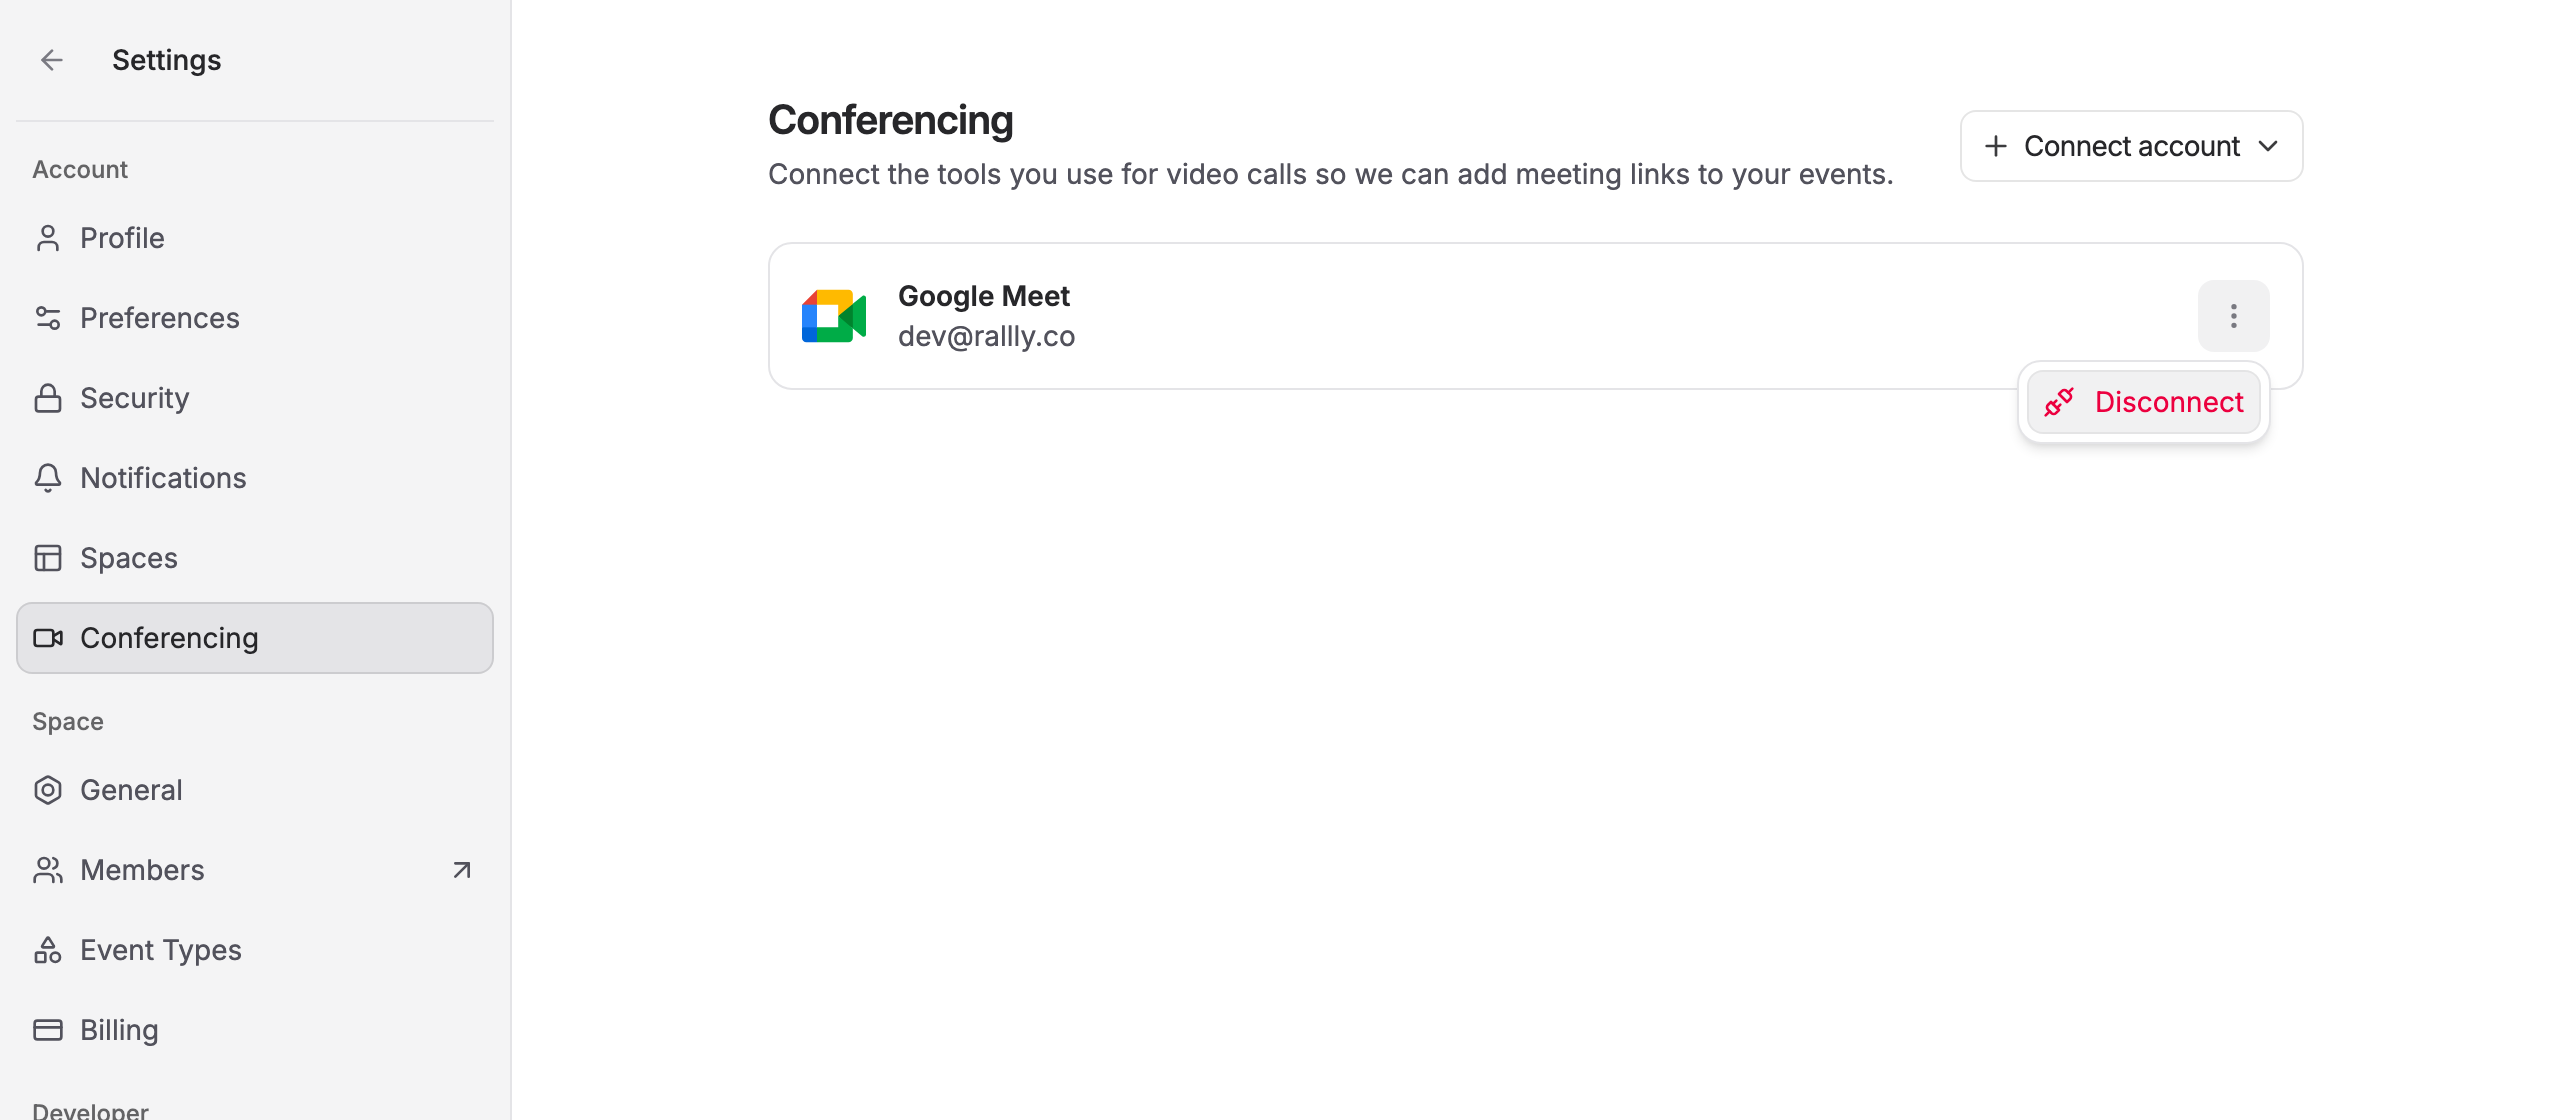
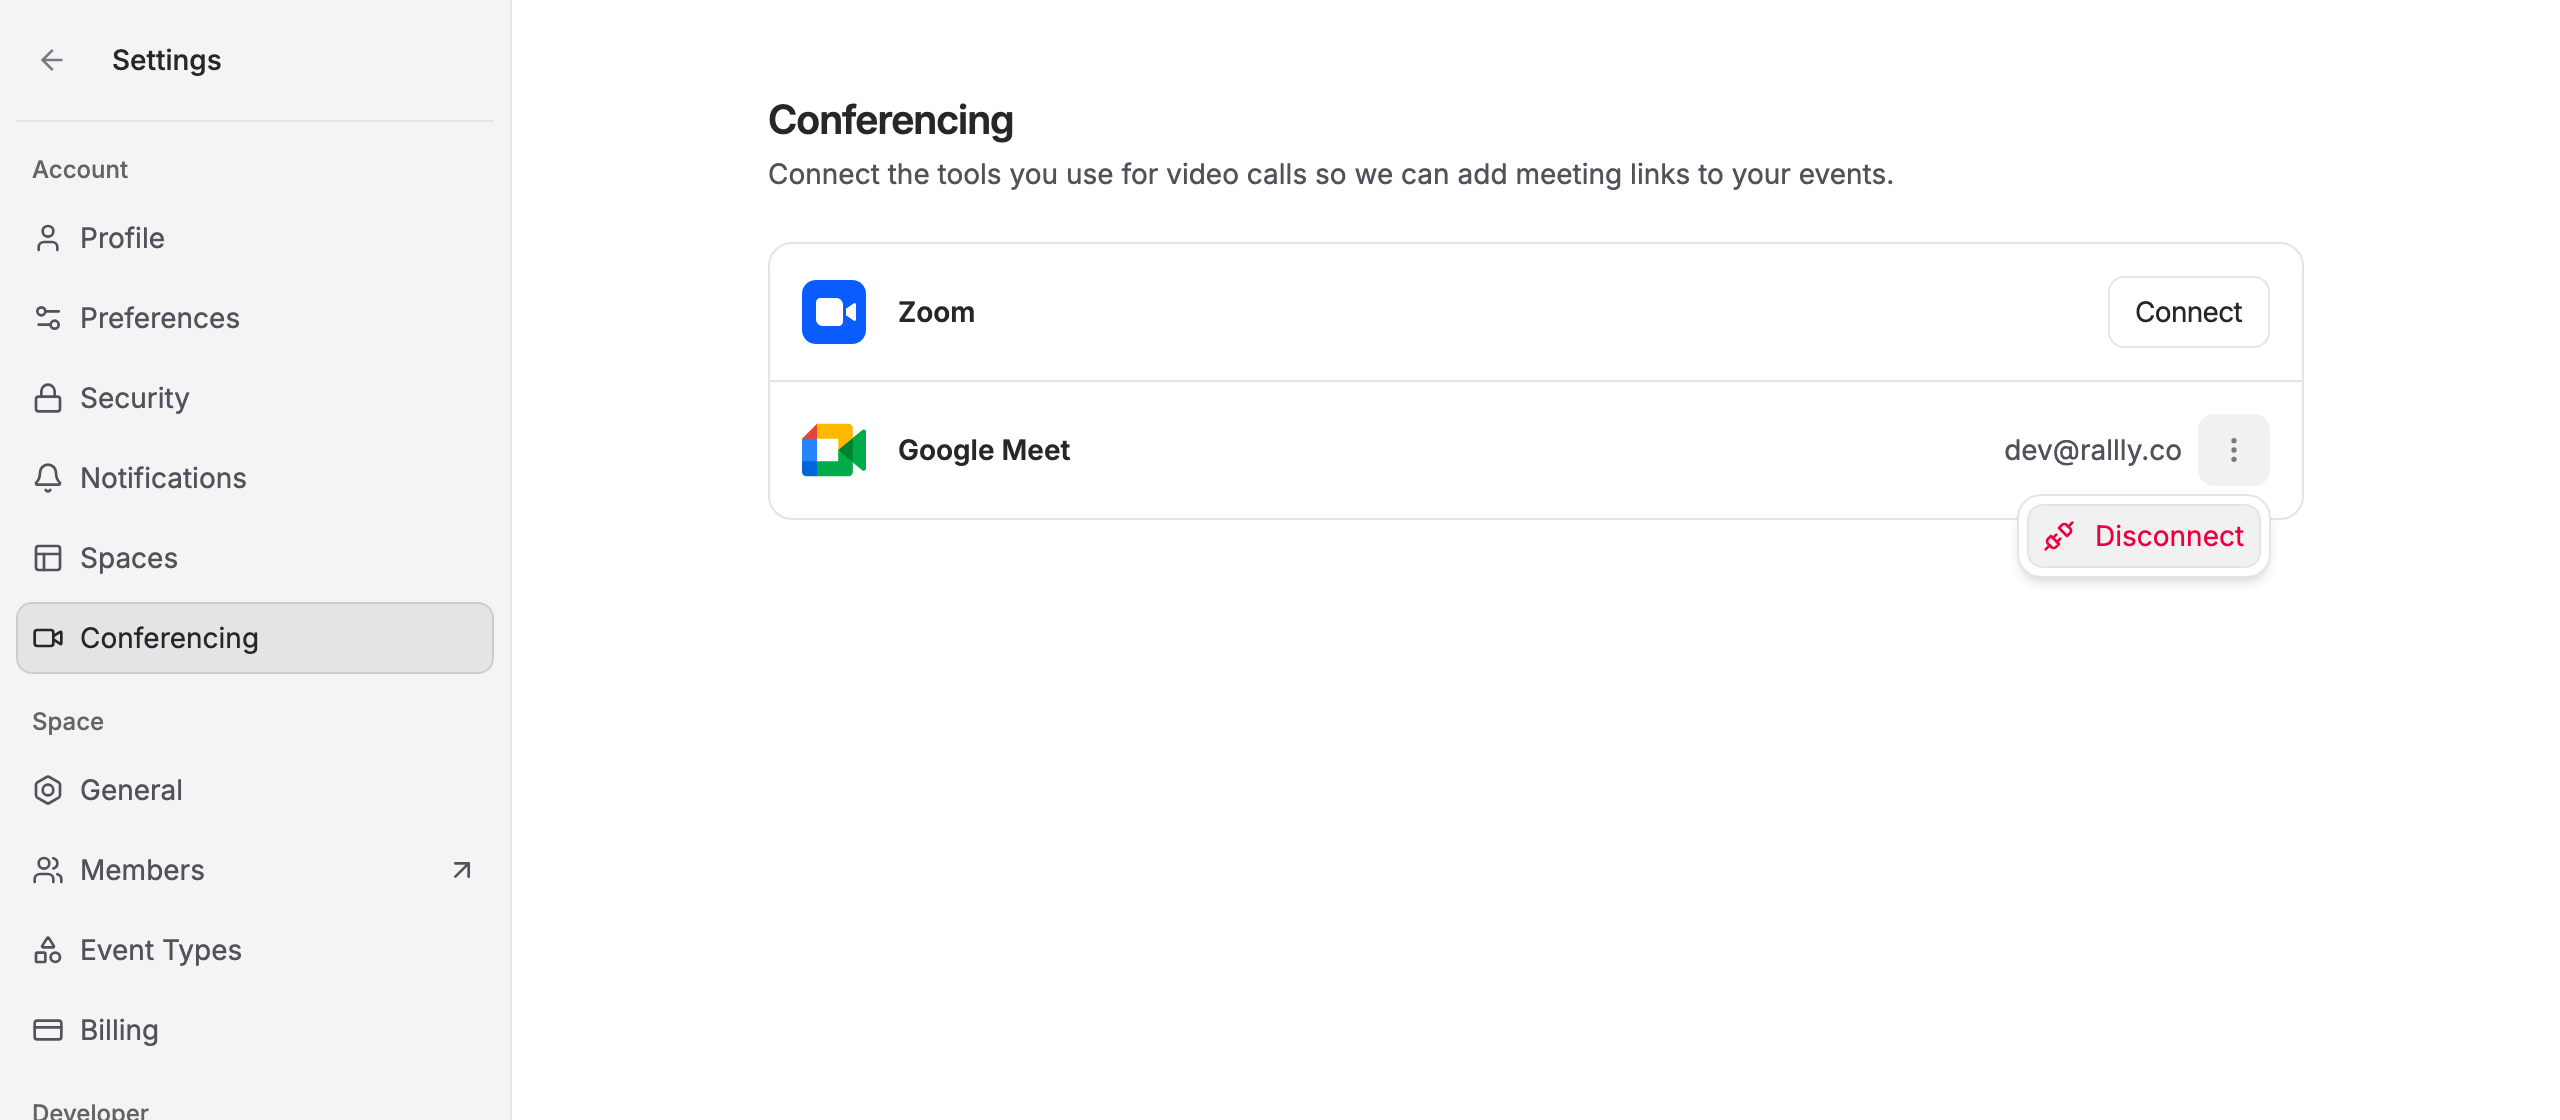
✨ Keep one conferencing account per provider (#3384)

diff --git a/apps/web/src/app/[locale]/(space)/settings/conferencing/page.tsx b/apps/web/src/app/[locale]/(space)/settings/conferencing/page.tsx
@@ -4,7 +4,6 @@ import { Suspense } from "react";
 import { PageSection, PageSectionContent } from "@/components/page-layout";
 import {
   SettingsPage,
-  SettingsPageAction,
   SettingsPageContent,
   SettingsPageDescription,
   SettingsPageHeader,
@@ -12,12 +11,13 @@ import {
 } from "@/components/settings-layout";
 import { Spinner } from "@/components/spinner";
 import { ConferencingConnectionFlash } from "@/features/conferencing/components/conferencing-connection-flash";
-import { ConferencingConnectionList } from "@/features/conferencing/components/conferencing-connection-list";
-import { ConnectConferencingDropdown } from "@/features/conferencing/components/connect-conferencing-dropdown";
+import { ConferencingProviderList } from "@/features/conferencing/components/conferencing-provider-list";
 import {
   loadAvailableConferencingProviders,
   loadConferencingConnections,
 } from "@/features/conferencing/loaders";
+import type { ConferencingProvider } from "@/features/conferencing/schema";
+import { conferencingProviderSchema } from "@/features/conferencing/schema";
 import { integrationIdToConferencingProvider } from "@/features/conferencing/utils";
 import { Trans } from "@/i18n/client";
 import { getTranslation } from "@/i18n/server";
@@ -30,11 +30,6 @@ async function AvailabilityGate() {
     notFound();
   }
   return null;
-}
-
-async function ConnectAction() {
-  const providers = await loadAvailableConferencingProviders();
-  return <ConnectConferencingDropdown providers={providers} />;
 }
 
 export default function ConferencingPage() {
@@ -58,17 +53,12 @@ export default function ConferencingPage() {
             defaults="Connect the tools you use for video calls so we can add meeting links to your events."
           />
         </SettingsPageDescription>
-        <SettingsPageAction>
-          <Suspense fallback={null}>
-            <ConnectAction />
-          </Suspense>
-        </SettingsPageAction>
       </SettingsPageHeader>
       <SettingsPageContent>
         <PageSection>
           <PageSectionContent>
             <Suspense fallback={<Spinner />}>
-              <ConnectionList />
+              <ProviderList />
             </Suspense>
           </PageSectionContent>
         </PageSection>
@@ -77,17 +67,39 @@ export default function ConferencingPage() {
   );
 }
 
-async function ConnectionList() {
-  const connections = await loadConferencingConnections();
+async function ProviderList() {
+  const [available, connections] = await Promise.all([
+    loadAvailableConferencingProviders(),
+    loadConferencingConnections(),
+  ]);
   // The stored provider is the OAuth provider ("google"); the form and icons
   // speak in conferencing providers, which the integration id identifies.
-  const items = connections.flatMap((connection) => {
+  const connected = new Map<
+    ConferencingProvider,
+    { id: string; email: string }
+  >();
+  for (const connection of connections) {
     const provider = integrationIdToConferencingProvider(
       connection.integrationId,
     );
-    return provider ? [{ ...connection, provider }] : [];
-  });
-  return <ConferencingConnectionList connections={items} />;
+    // Connections come oldest first, and the oldest is the one finalizing uses.
+    if (provider && !connected.has(provider)) {
+      connected.set(provider, { id: connection.id, email: connection.email });
+    }
+  }
+  // A provider no longer offered stays listed while connected, so it can
+  // still be disconnected.
+  const providers = conferencingProviderSchema.options.filter(
+    (provider) => available.includes(provider) || connected.has(provider),
+  );
+  return (
+    <ConferencingProviderList
+      providers={providers.map((provider) => ({
+        provider,
+        connection: connected.get(provider) ?? null,
+      }))}
+    />
+  );
 }
 
 export async function generateMetadata(): Promise<Metadata> {

diff --git a/apps/web/src/features/conferencing/components/conferencing-provider-list.tsx b/apps/web/src/features/conferencing/components/conferencing-provider-list.tsx
@@ -1,0 +1,108 @@
+"use client";
+
+import { mutationOptions } from "@next-safe-action/adapter-tanstack-query";
+import { Button } from "@rallly/ui/button";
+import {
+  DropdownMenu,
+  DropdownMenuContent,
+  DropdownMenuItem,
+  DropdownMenuTrigger,
+} from "@rallly/ui/dropdown-menu";
+import { toast } from "@rallly/ui/sonner";
+import { useMutation } from "@tanstack/react-query";
+import { MoreVerticalIcon, UnplugIcon } from "lucide-react";
+import { StackedList, StackedListItem } from "@/components/stacked-list";
+import { disconnectConferencingConnectionAction } from "@/features/conferencing/actions";
+import { connectToConferencing } from "@/features/conferencing/client";
+import { ConferencingProviderIcon } from "@/features/conferencing/components/conferencing-provider-icon";
+import type { ConferencingProvider } from "@/features/conferencing/schema";
+import {
+  conferencingProviderIntegrations,
+  conferencingProviderLabels,
+} from "@/features/conferencing/utils";
+import { Trans, useTranslation } from "@/i18n/client";
+
+export function ConferencingProviderList({
+  providers,
+}: {
+  providers: {
+    provider: ConferencingProvider;
+    connection: { id: string; email: string } | null;
+  }[];
+}) {
+  const { t } = useTranslation();
+  const disconnect = useMutation(
+    mutationOptions(disconnectConferencingConnectionAction, {
+      onSuccess: () => {
+        toast.success(
+          t("conferencingDisconnected", {
+            defaultValue: "Account disconnected",
+          }),
+        );
+      },
+    }),
+  );
+
+  return (
+    <StackedList>
+      {providers.map(({ provider, connection }) => (
+        <StackedListItem
+          key={provider}
+          className="gap-x-4 hover:bg-transparent"
+        >
+          <span className="shrink-0">
+            <ConferencingProviderIcon provider={provider} size={32} />
+          </span>
+          <p className="shrink-0 font-semibold text-sm">
+            {conferencingProviderLabels[provider]}
+          </p>
+          <div className="ml-auto flex min-w-0 items-center gap-x-2">
+            {connection ? (
+              <>
+                <p className="truncate text-muted-foreground text-sm">
+                  {connection.email}
+                </p>
+                <DropdownMenu>
+                  <DropdownMenuTrigger
+                    render={
+                      <Button
+                        aria-label={t("moreOptions", {
+                          defaultValue: "More options",
+                        })}
+                        variant="ghost"
+                        size="icon"
+                      />
+                    }
+                  >
+                    <MoreVerticalIcon className="text-muted-foreground" />
+                  </DropdownMenuTrigger>
+                  <DropdownMenuContent align="end">
+                    <DropdownMenuItem
+                      variant="destructive"
+                      onClick={() => {
+                        disconnect.mutate({ id: connection.id });
+                      }}
+                    >
+                      <UnplugIcon />
+                      <Trans i18nKey="disconnect" defaults="Disconnect" />
+                    </DropdownMenuItem>
+                  </DropdownMenuContent>
+                </DropdownMenu>
+              </>
+            ) : (
+              <Button
+                onClick={() => {
+                  connectToConferencing(
+                    conferencingProviderIntegrations[provider].integrationId,
+                  );
+                }}
+              >
+                <Trans i18nKey="connect" defaults="Connect" />
+              </Button>
+            )}
+          </div>
+        </StackedListItem>
+      ))}
+    </StackedList>
+  );
+}

diff --git a/apps/web/tests/conferencing.spec.ts b/apps/web/tests/conferencing.spec.ts
@@ -76,16 +76,13 @@ test.describe
       await prisma.user.delete({ where: { id: userId } });
     });
 
-    test("settings page starts empty and offers the configured providers", async () => {
+    test("settings page lists the configured providers to connect", async () => {
       await page.goto("/settings/conferencing");
       await expect(
         page.getByRole("heading", { name: "Conferencing" }),
       ).toBeVisible();
-      await expect(page.getByText("No accounts connected")).toBeVisible();
-
-      await page.getByRole("button", { name: "Connect account" }).click();
-      await expect(page.getByRole("menuitem", { name: "Zoom" })).toBeVisible();
-      await page.keyboard.press("Escape");
+      await expect(page.getByText("Zoom", { exact: true })).toBeVisible();
+      await expect(page.getByRole("button", { name: "Connect" })).toBeVisible();
     });
 
     test("poll form blocks a provider the organizer has not connected", async () => {
@@ -113,6 +110,9 @@ test.describe
       await expect(
         page.getByText(`organizer-${runId}@zoom.example`),
       ).toBeVisible();
+      await expect(page.getByRole("button", { name: "Connect" })).toHaveCount(
+        0,
+      );
     });
 
     test("poll form accepts a connected provider and stores it", async () => {
@@ -203,7 +203,7 @@ test.describe
       await page.goto("/settings/conferencing");
       await page.getByRole("button", { name: "More options" }).click();
       await page.getByRole("menuitem", { name: "Disconnect" }).click();
-      await expect(page.getByText("No accounts connected")).toBeVisible();
+      await expect(page.getByRole("button", { name: "Connect" })).toBeVisible();
       expect(
         await prisma.conferencingConnection.count({ where: { userId } }),
       ).toBe(0);
@@ -246,7 +246,7 @@ test.describe
       await page.goto("/settings/conferencing");
       await page.getByRole("button", { name: "More options" }).click();
       await page.getByRole("menuitem", { name: "Disconnect" }).click();
-      await expect(page.getByText("No accounts connected")).toBeVisible();
+      await expect(page.getByText(email)).toHaveCount(0);
       expect(
         await prisma.credential.count({ where: { id: credential.id } }),
       ).toBe(1);

diff --git a/apps/web/src/features/conferencing/mutations.ts b/apps/web/src/features/conferencing/mutations.ts
@@ -28,7 +28,7 @@ export const createConferencingConnection = async ({
   displayName: string;
   userInfo: UserInfo;
 }) => {
-  return await prisma.conferencingConnection.upsert({
+  const connection = await prisma.conferencingConnection.upsert({
     where: {
       user_provider_account_unique: {
         userId,
@@ -50,6 +50,19 @@ export const createConferencingConnection = async ({
       email: userInfo.email,
     },
   });
+
+  // A poll names only the provider, so a second account for the same
+  // integration would never host a meeting. Connecting one replaces the rest.
+  const replaced = await prisma.conferencingConnection.findMany({
+    where: { userId, integrationId, id: { not: connection.id } },
+    select: { id: true, provider: true, credentialId: true },
+  });
+
+  for (const previous of replaced) {
+    await removeConferencingConnection(previous);
+  }
+
+  return connection;
 };
 
 export const disconnectConferencingConnection = async ({
